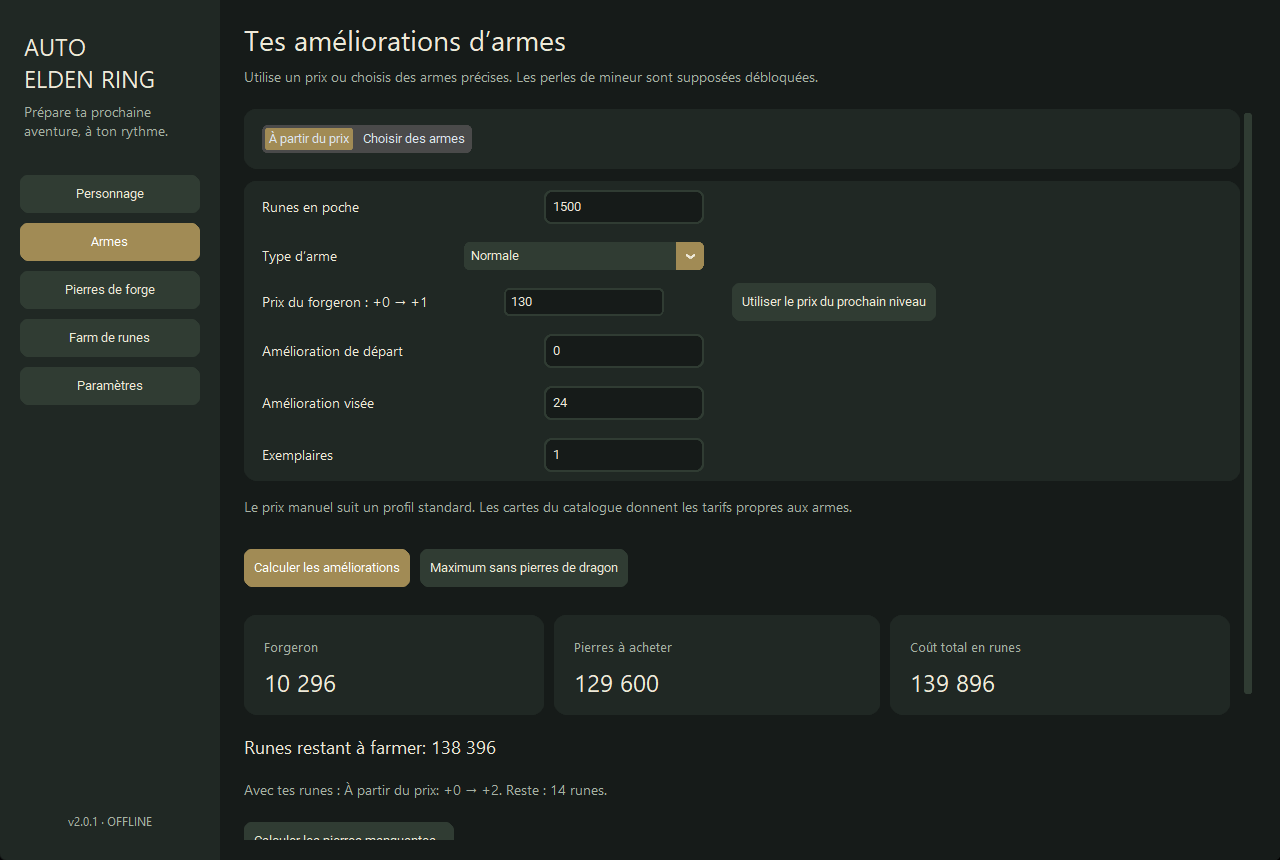
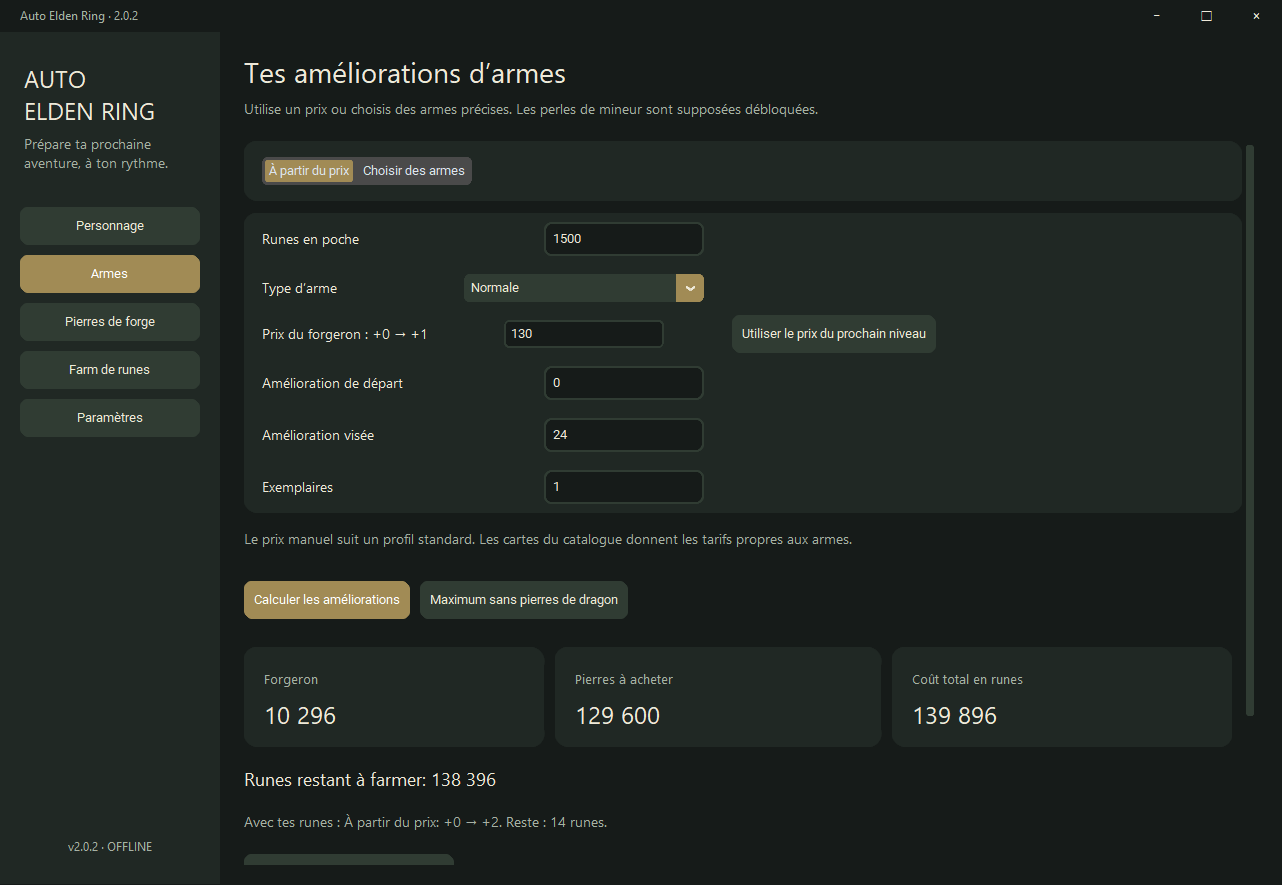
Auto Elden Ring 2.0.2 — 2026-10-03
- Added an integrated Windows title bar with dragging, minimize/maximize/close controls and native resizing, keeping the caption inside the selected theme.

diff --git a/auto_elden_ring/ui.py b/auto_elden_ring/ui.py
@@ -51,6 +51,7 @@ class App(ctk.CTk):
         self.minsize(1080, 730)
         self.title(f"Auto Elden Ring · {__version__}")
         self.protocol("WM_DELETE_WINDOW", self.close)
+        self.bind("<Map>",self.on_map,add="+")
         try:
             self.iconbitmap(str(resource_path("assets/app.ico")))
         except tk.TclError:
@@ -97,7 +98,10 @@ class App(ctk.CTk):
         self.configure(fg_color=self.bg)
         self.grid_columnconfigure(1, weight=1)
         self.grid_rowconfigure(0, weight=1)
+        self.grid_rowconfigure(1, weight=0)
+        self.chrome=None
         sidebar = ctk.CTkFrame(self, width=220, fg_color=self.paper, corner_radius=0)
+        self.sidebar=sidebar
         sidebar.grid(row=0, column=0, sticky="ns")
         sidebar.grid_propagate(False)
         self.label(sidebar, "AUTO\nELDEN RING", 24, justify="left").pack(anchor="w", padx=24, pady=(30, 8))
@@ -123,8 +127,55 @@ class App(ctk.CTk):
             for attribute, value in ((35, self.bg), (36, self.ink), (34, self.bg)):
                 packed = color(value)
                 ctypes.windll.dwmapi.DwmSetWindowAttribute(hwnd, attribute, ctypes.byref(packed), 4)
+            self.integrated_titlebar(hwnd)
         except (OSError, AttributeError):
             pass
+
+    def on_map(self,event):
+        if event.widget==self and hasattr(self,"bg"):
+            self.after(100,self.blend_titlebar)
+
+    def integrated_titlebar(self,hwnd):
+        """Keep native resizing/taskbar behavior while replacing the caption."""
+        user32=ctypes.windll.user32
+        user32.GetWindowLongW.argtypes=[ctypes.c_void_p,ctypes.c_int]
+        user32.SetWindowLongW.argtypes=[ctypes.c_void_p,ctypes.c_int,ctypes.c_long]
+        user32.SetWindowPos.argtypes=[ctypes.c_void_p,ctypes.c_void_p,ctypes.c_int,ctypes.c_int,ctypes.c_int,ctypes.c_int,ctypes.c_uint]
+        style=user32.GetWindowLongW(hwnd,-16)
+        user32.SetWindowLongW(hwnd,-16,style & ~0x00C00000)
+        user32.SetWindowPos(hwnd,None,0,0,0,0,0x37)
+        if self.chrome is not None:
+            return
+        self.chrome=ctk.CTkFrame(self,fg_color=self.bg,corner_radius=0,height=32)
+        self.chrome.grid(row=0,column=0,columnspan=2,sticky="ew")
+        self.chrome.grid_propagate(False)
+        self.sidebar.grid_configure(row=1)
+        self.host.grid_configure(row=1)
+        self.grid_rowconfigure(0,weight=0)
+        self.grid_rowconfigure(1,weight=1)
+        title=self.label(self.chrome,f"Auto Elden Ring · {__version__}",12,True)
+        title.pack(side="left",padx=20)
+        for widget in (self.chrome,title):
+            widget.bind("<Button-1>",self.begin_drag)
+            widget.bind("<B1-Motion>",self.drag_window)
+            widget.bind("<Double-Button-1>",lambda _:self.toggle_maximize())
+        for symbol,command in (("×",self.close),("□",self.toggle_maximize),("−",self.iconify)):
+            ctk.CTkButton(self.chrome,text=symbol,width=44,height=26,corner_radius=7,
+                          fg_color=self.bg,hover_color=self.soft,text_color=self.ink,
+                          command=command).pack(side="right",padx=3,pady=3)
+
+    def begin_drag(self,event):
+        self.drag_origin=(event.x_root,event.y_root,self.winfo_x(),self.winfo_y())
+
+    def drag_window(self,event):
+        if self.state()=="zoomed":
+            self.state("normal")
+            self.begin_drag(event)
+        x,y,left,top=self.drag_origin
+        self.geometry(f"+{left+event.x_root-x}+{top+event.y_root-y}")
+
+    def toggle_maximize(self):
+        self.state("normal" if self.state()=="zoomed" else "zoomed")
 
     def show(self, page):
         self.page = page

diff --git a/scripts/capture_ui.py b/scripts/capture_ui.py
@@ -2,10 +2,17 @@
 from pathlib import Path
 import sys
 import time
+import ctypes
 ROOT=Path(__file__).resolve().parent.parent
 sys.path.insert(0,str(ROOT))
 from PIL import ImageGrab
 from auto_elden_ring.ui import App
+
+
+def capture(window,path):
+    ctypes.windll.user32.GetParent.restype=ctypes.c_void_p
+    hwnd=ctypes.windll.user32.GetParent(window.winfo_id())
+    ImageGrab.grab(window=hwnd).save(path)
 
 
 def main():
@@ -27,14 +34,14 @@ def main():
             time.sleep(.3)
             app.update()
             box=(app.winfo_rootx(),app.winfo_rooty(),app.winfo_rootx()+app.winfo_width(),app.winfo_rooty()+app.winfo_height())
-            ImageGrab.grab(bbox=box).save(directory/(page+".png"))
+            capture(app,directory/(page+".png"))
         app.data["theme"]="elden"
         app.data["language"]="fr"
         app.build_shell()
         app.show("weapons")
         app.update()
         time.sleep(.3)
-        ImageGrab.grab(bbox=box).save(directory/"elden-fr.png")
+        capture(app,directory/"elden-fr.png")
         app.catalogue()
         until=time.monotonic()+8
         while time.monotonic()<until:
@@ -46,7 +53,7 @@ def main():
         app.update()
         time.sleep(.4)
         box=(window.winfo_rootx(),window.winfo_rooty(),window.winfo_rootx()+window.winfo_width(),window.winfo_rooty()+window.winfo_height())
-        ImageGrab.grab(bbox=box).save(directory/"catalogue.png")
+        capture(window,directory/"catalogue.png")
     finally:
         app.destroy()
 

diff --git a/tests/test_ui.py b/tests/test_ui.py
@@ -21,6 +21,13 @@ class Interface(unittest.TestCase):
         a.stat_vars["stats_target","vigor"].set("60")
         a.wallet_var.set("1500")
         a.calculate_character()
+        a.update()
+        a.blend_titlebar()
+        self.assertIsNotNone(a.chrome)
+        a.toggle_maximize()
+        self.assertEqual(a.state(),"zoomed")
+        a.toggle_maximize()
+        self.assertEqual(a.state(),"normal")
         self.assertEqual(a.planner.character()["target"],54)
         self.assertEqual(a.planner.character()["current"],9)
         self.assertEqual(a.data["runes"],1500)

diff --git a/auto_elden_ring/__init__.py b/auto_elden_ring/__init__.py
@@ -1,3 +1,3 @@
 """Auto Elden Ring: offline rune planning using the supplied regulation tables."""
 
-__version__ = "2.0.1"
+__version__ = "2.0.2"

diff --git a/README.md b/README.md
@@ -5,9 +5,9 @@ smithing materials and rune farming. Written in Python with a standalone x64 EXE
 
 ![Character planner](docs/screenshots/character.png)
 
-## Run version 2.0.1
+## Run version 2.0.2
 
-- Without Python: run Auto-Elden-Ring-2.0.1-win-x64.exe from the Windows ZIP.
+- Without Python: run Auto-Elden-Ring-2.0.2-win-x64.exe from the Windows ZIP.
   Images, fonts, translations and cost tables are included. No installation,
   browser, game connection or online account is required.
 - From source: install Python 3.14 x64 and run START_AUTO_ELDEN_RING.bat.
@@ -67,9 +67,9 @@ and [changelog](CHANGELOG.md).
 Run BUILD_RELEASE.ps1 on Windows x64. The script tests calculations and real
 widgets, builds a PyInstaller executable, checks embedded resources and creates:
 
-- auto-elden-ring-2.0.1-source.zip: architecture-independent Python source.
-- auto-elden-ring-2.0.1-windows-x64.zip: standalone Windows x64 package.
-- Auto-Elden-Ring-2.0.1-win-x64.exe: executable for release downloads.
+- auto-elden-ring-2.0.2-source.zip: architecture-independent Python source.
+- auto-elden-ring-2.0.2-windows-x64.zip: standalone Windows x64 package.
+- Auto-Elden-Ring-2.0.2-win-x64.exe: executable for release downloads.
 - RELEASE_MANIFEST.json, SHA256SUMS.txt and executable verification reports.
 
 Each release lives in releases/version. Existing versions are never overwritten.
@@ -81,7 +81,7 @@ and require version 1; version-2 projects use schema 2.
 python -m unittest discover -s tests -v
 python main.py --self-test --report verification.json
 python main.py --ui-smoke --report verification-ui.json
-Get-FileHash .\Auto-Elden-Ring-2.0.1-win-x64.exe -Algorithm SHA256
+Get-FileHash .\Auto-Elden-Ring-2.0.2-win-x64.exe -Algorithm SHA256
 ~~~
 
 Upload the project and artifacts to your own GitHub repository. No publishing

diff --git a/docs/VERIFICATION.md b/docs/VERIFICATION.md
@@ -1,4 +1,4 @@
-# Verification — 2.0.1
+# Verification — 2.0.2
 
 The builder runs 34 tests covering exact levels, all catalogue passages,
 inverse profiles, shared inventory, atomic persistence, purchase/upgrade
@@ -22,7 +22,7 @@ RELEASE_MANIFEST.json and SHA256SUMS.txt establish artifact correspondence.
 - No native-speaker review of all localizations.
 - No assertion of unrestricted game-media redistribution rights.
 - Buff comparisons are projections affected by rounding and uptime.
-- Native title-bar colors depend on Windows DWM support.
+- The Windows caption is integrated into the theme; native resizing is retained.
 - Schema-1 projects require version 1; this release uses schema 2.
 
 ## Reproduce

diff --git a/docs/GUIDE.md b/docs/GUIDE.md
@@ -1,4 +1,4 @@
-# User guide — 2.0.1
+# User guide — 2.0.2
 
 ## Character
 
@@ -82,6 +82,9 @@ entered single measurement; recording enables sample averages again.
 ## Settings, save and resume
 
 Choose six languages and three themes. This release has no Windows XP imitation.
+The Windows title bar is integrated into the selected theme. Drag its empty
+area to move the window, double-click to maximize/restore, and use the right
+controls to minimize, maximize or close. Native resize borders remain available.
 Save build writes goals, current/target attributes, weapons, wallet, stock,
 overrides, farm samples, language and theme into a JSON project.
 

diff --git a/CHANGELOG.md b/CHANGELOG.md
@@ -1,5 +1,10 @@
 # Changelog
 
+## 2.0.2 — 2026-10-03
+
+- Added an integrated Windows title bar with dragging, minimize/maximize/close
+  controls and native resizing, keeping the caption inside the selected theme.
+
 ## 2.0.1 — 2026-10-03
 
 - Preserved elapsed duration in the entry field when an ordinary farming test
